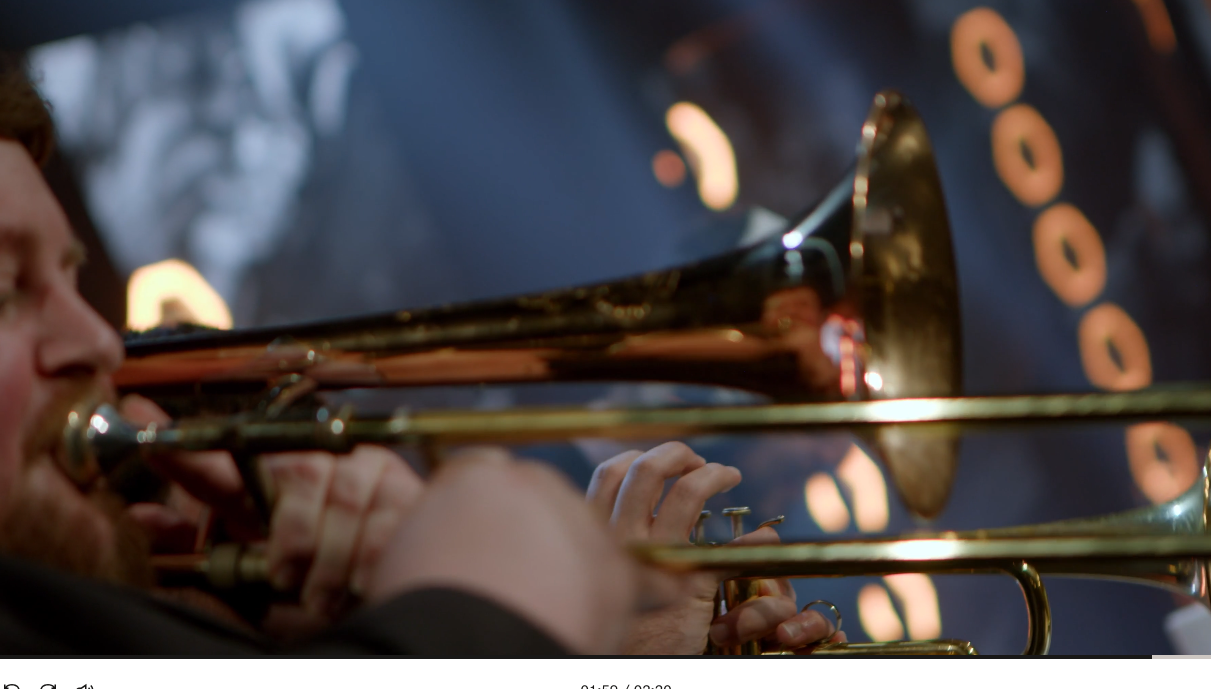
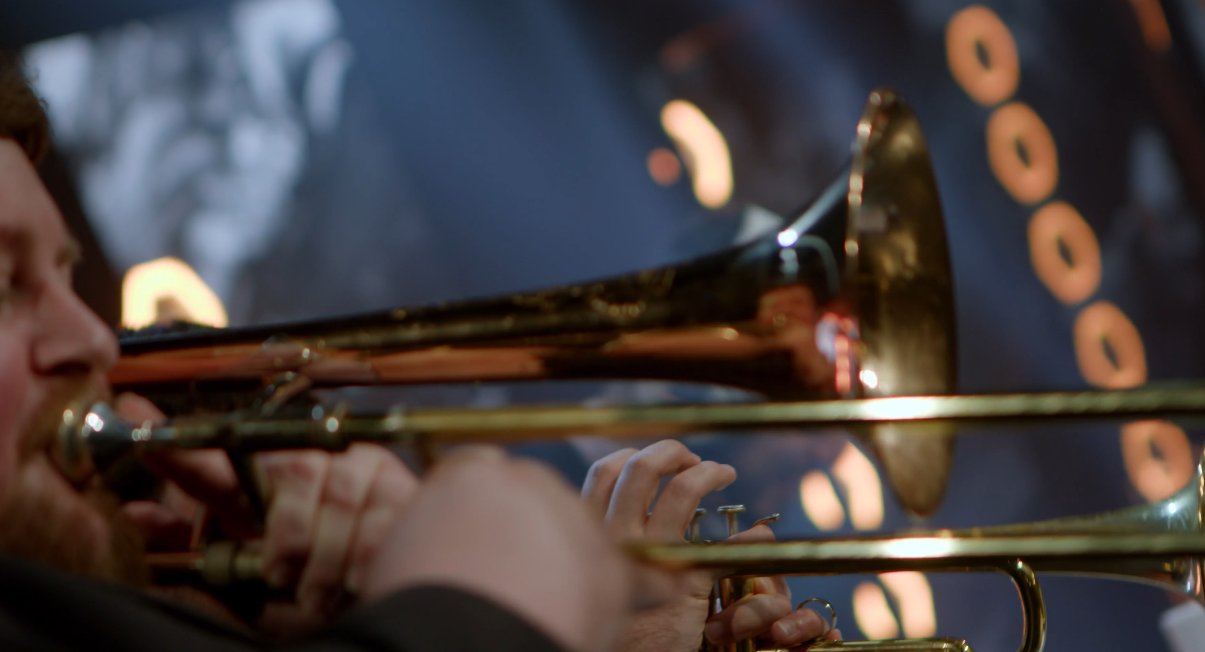
image size adjustment

diff --git a/styles.css b/styles.css
@@ -515,14 +515,17 @@ h3 {
 /* Special Slide Styling */
 .special-slide {
     /* background: linear-gradient(to bottom right, #e7b3b3, #a84b4b); */
-    background: url(images/quartett.JPG);
+    background: url(images/trombone.png);
     background-repeat: no-repeat;
     border-radius: 0px;
     padding: 50px;
-    background-size: cover;
     background-position: left;
     color: #f4f4f4;
     font-family: 'Georgia', serif;
+    background-size: 100% auto; /* Stretch vertically */
+    background-size: auto 100%;
+    background-position: 100% center;
+
 }
 
 .title {
